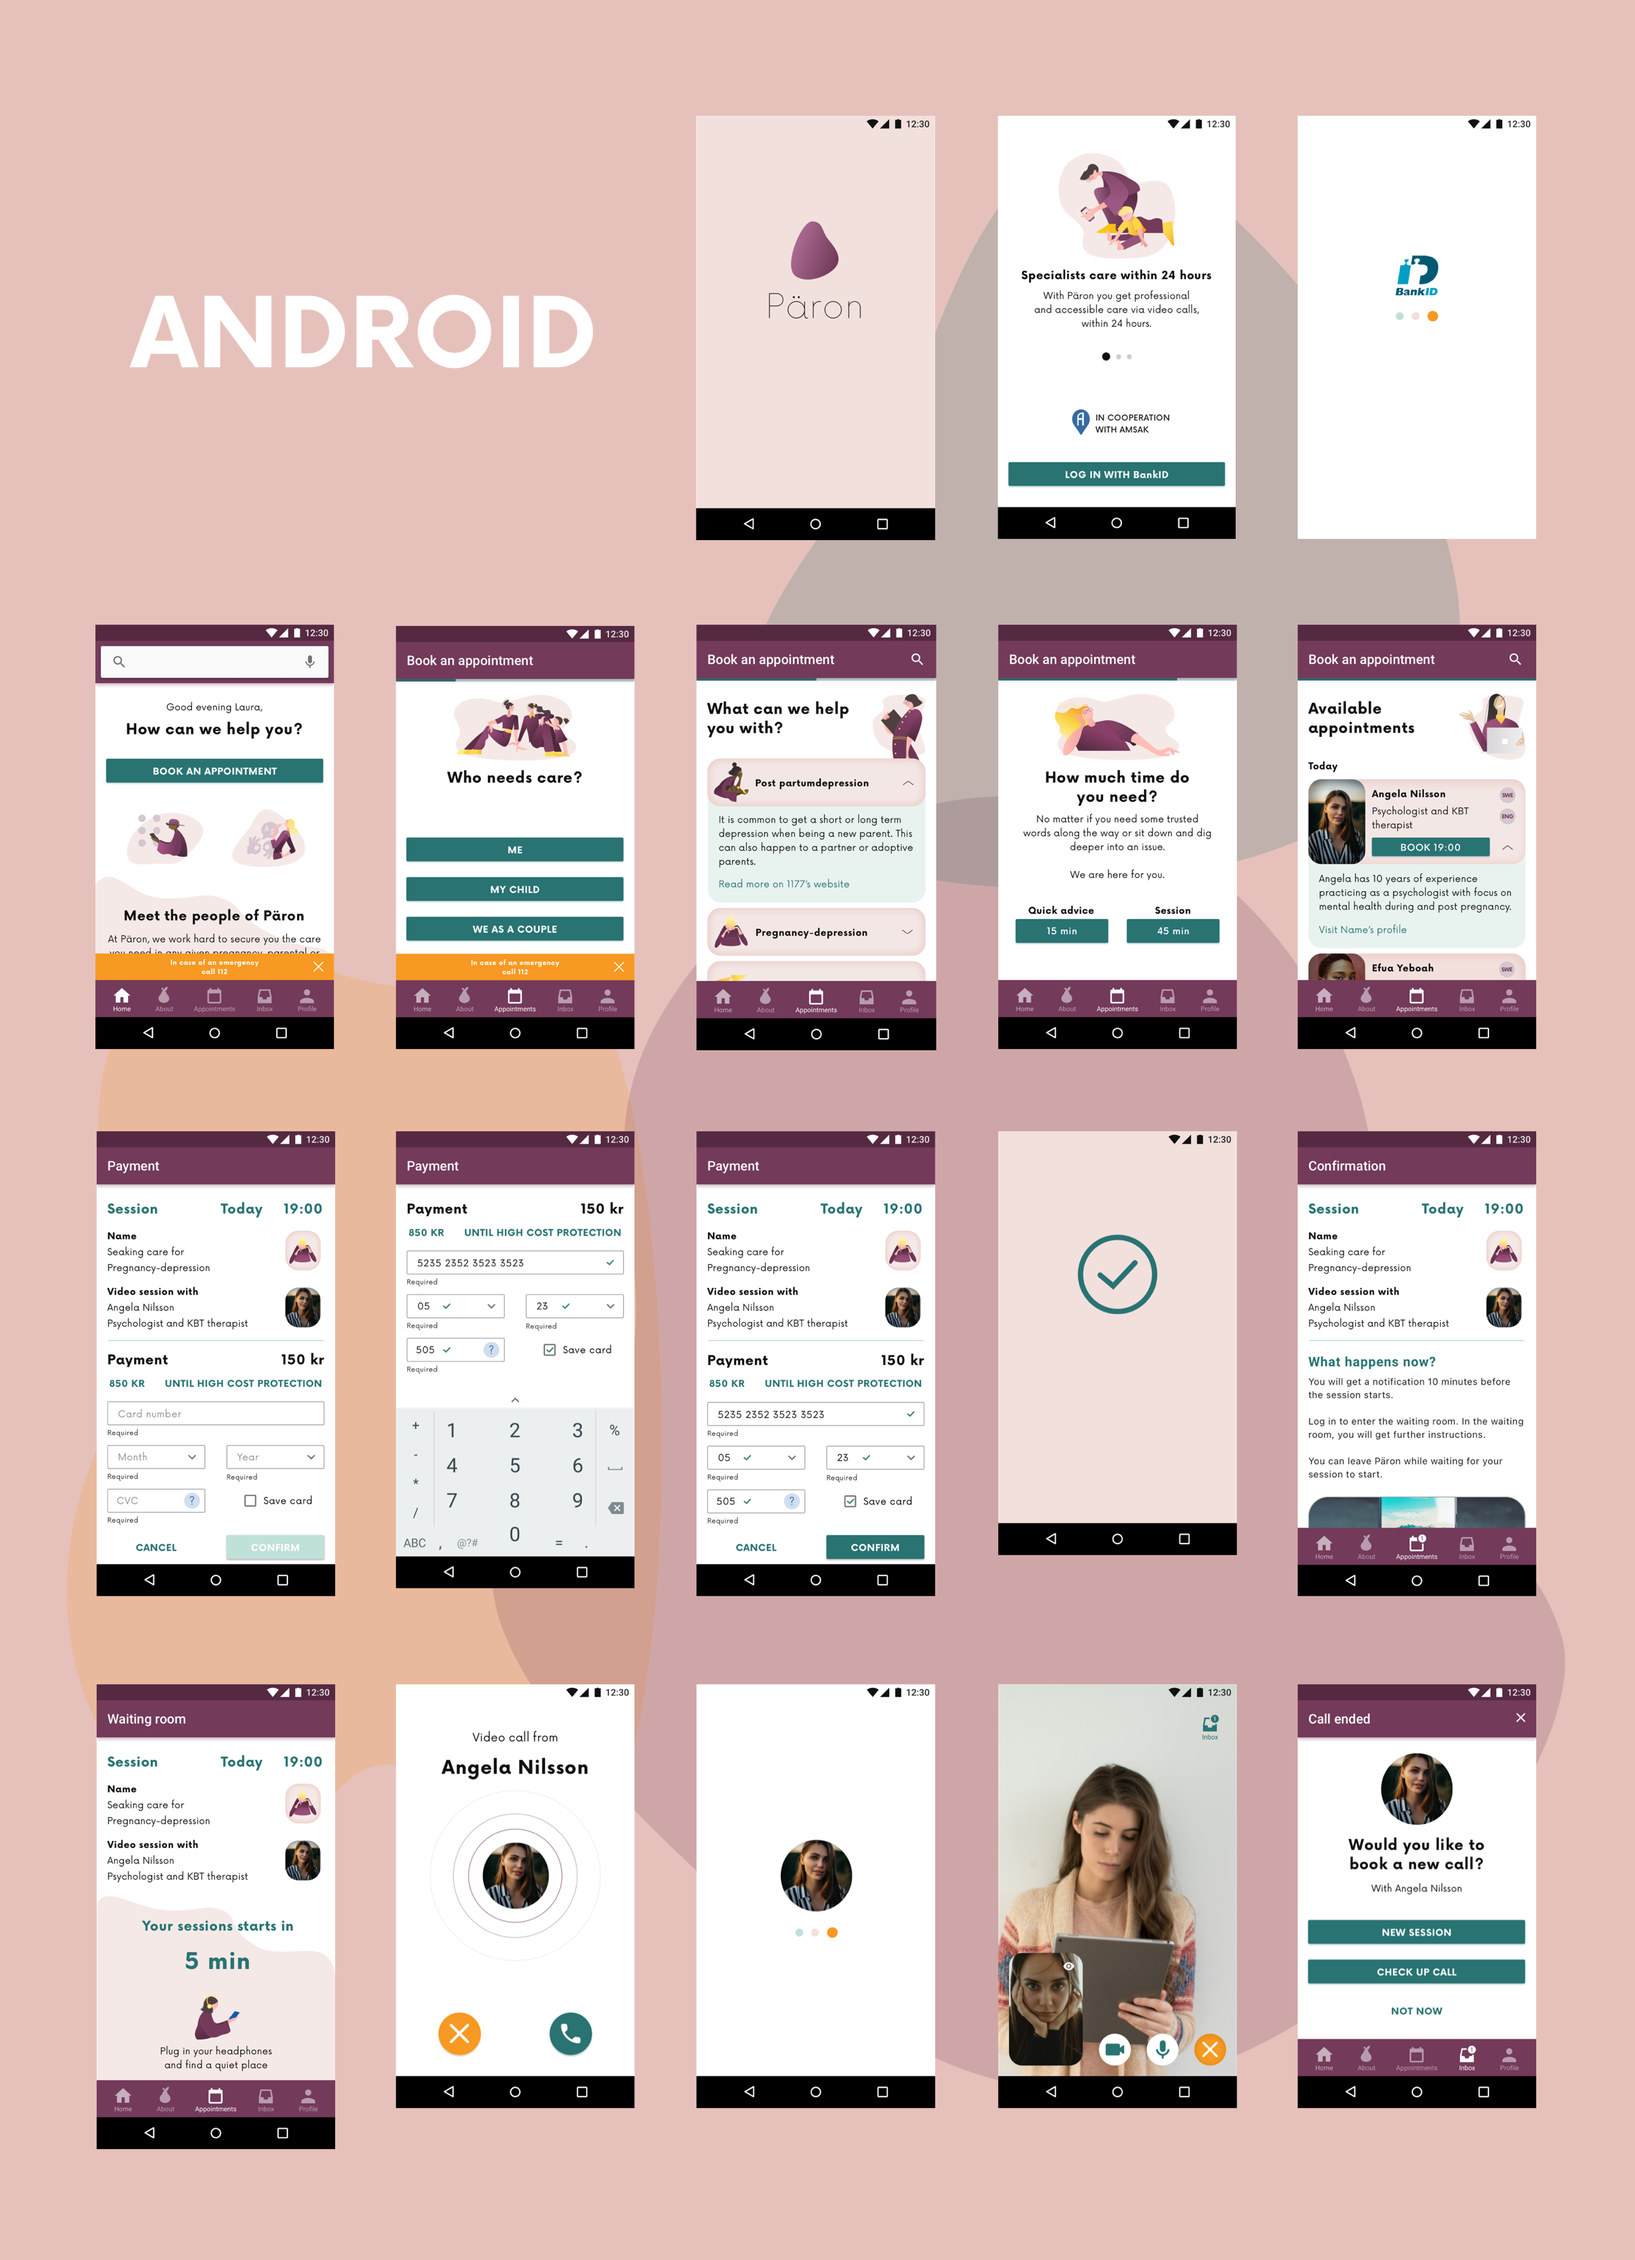
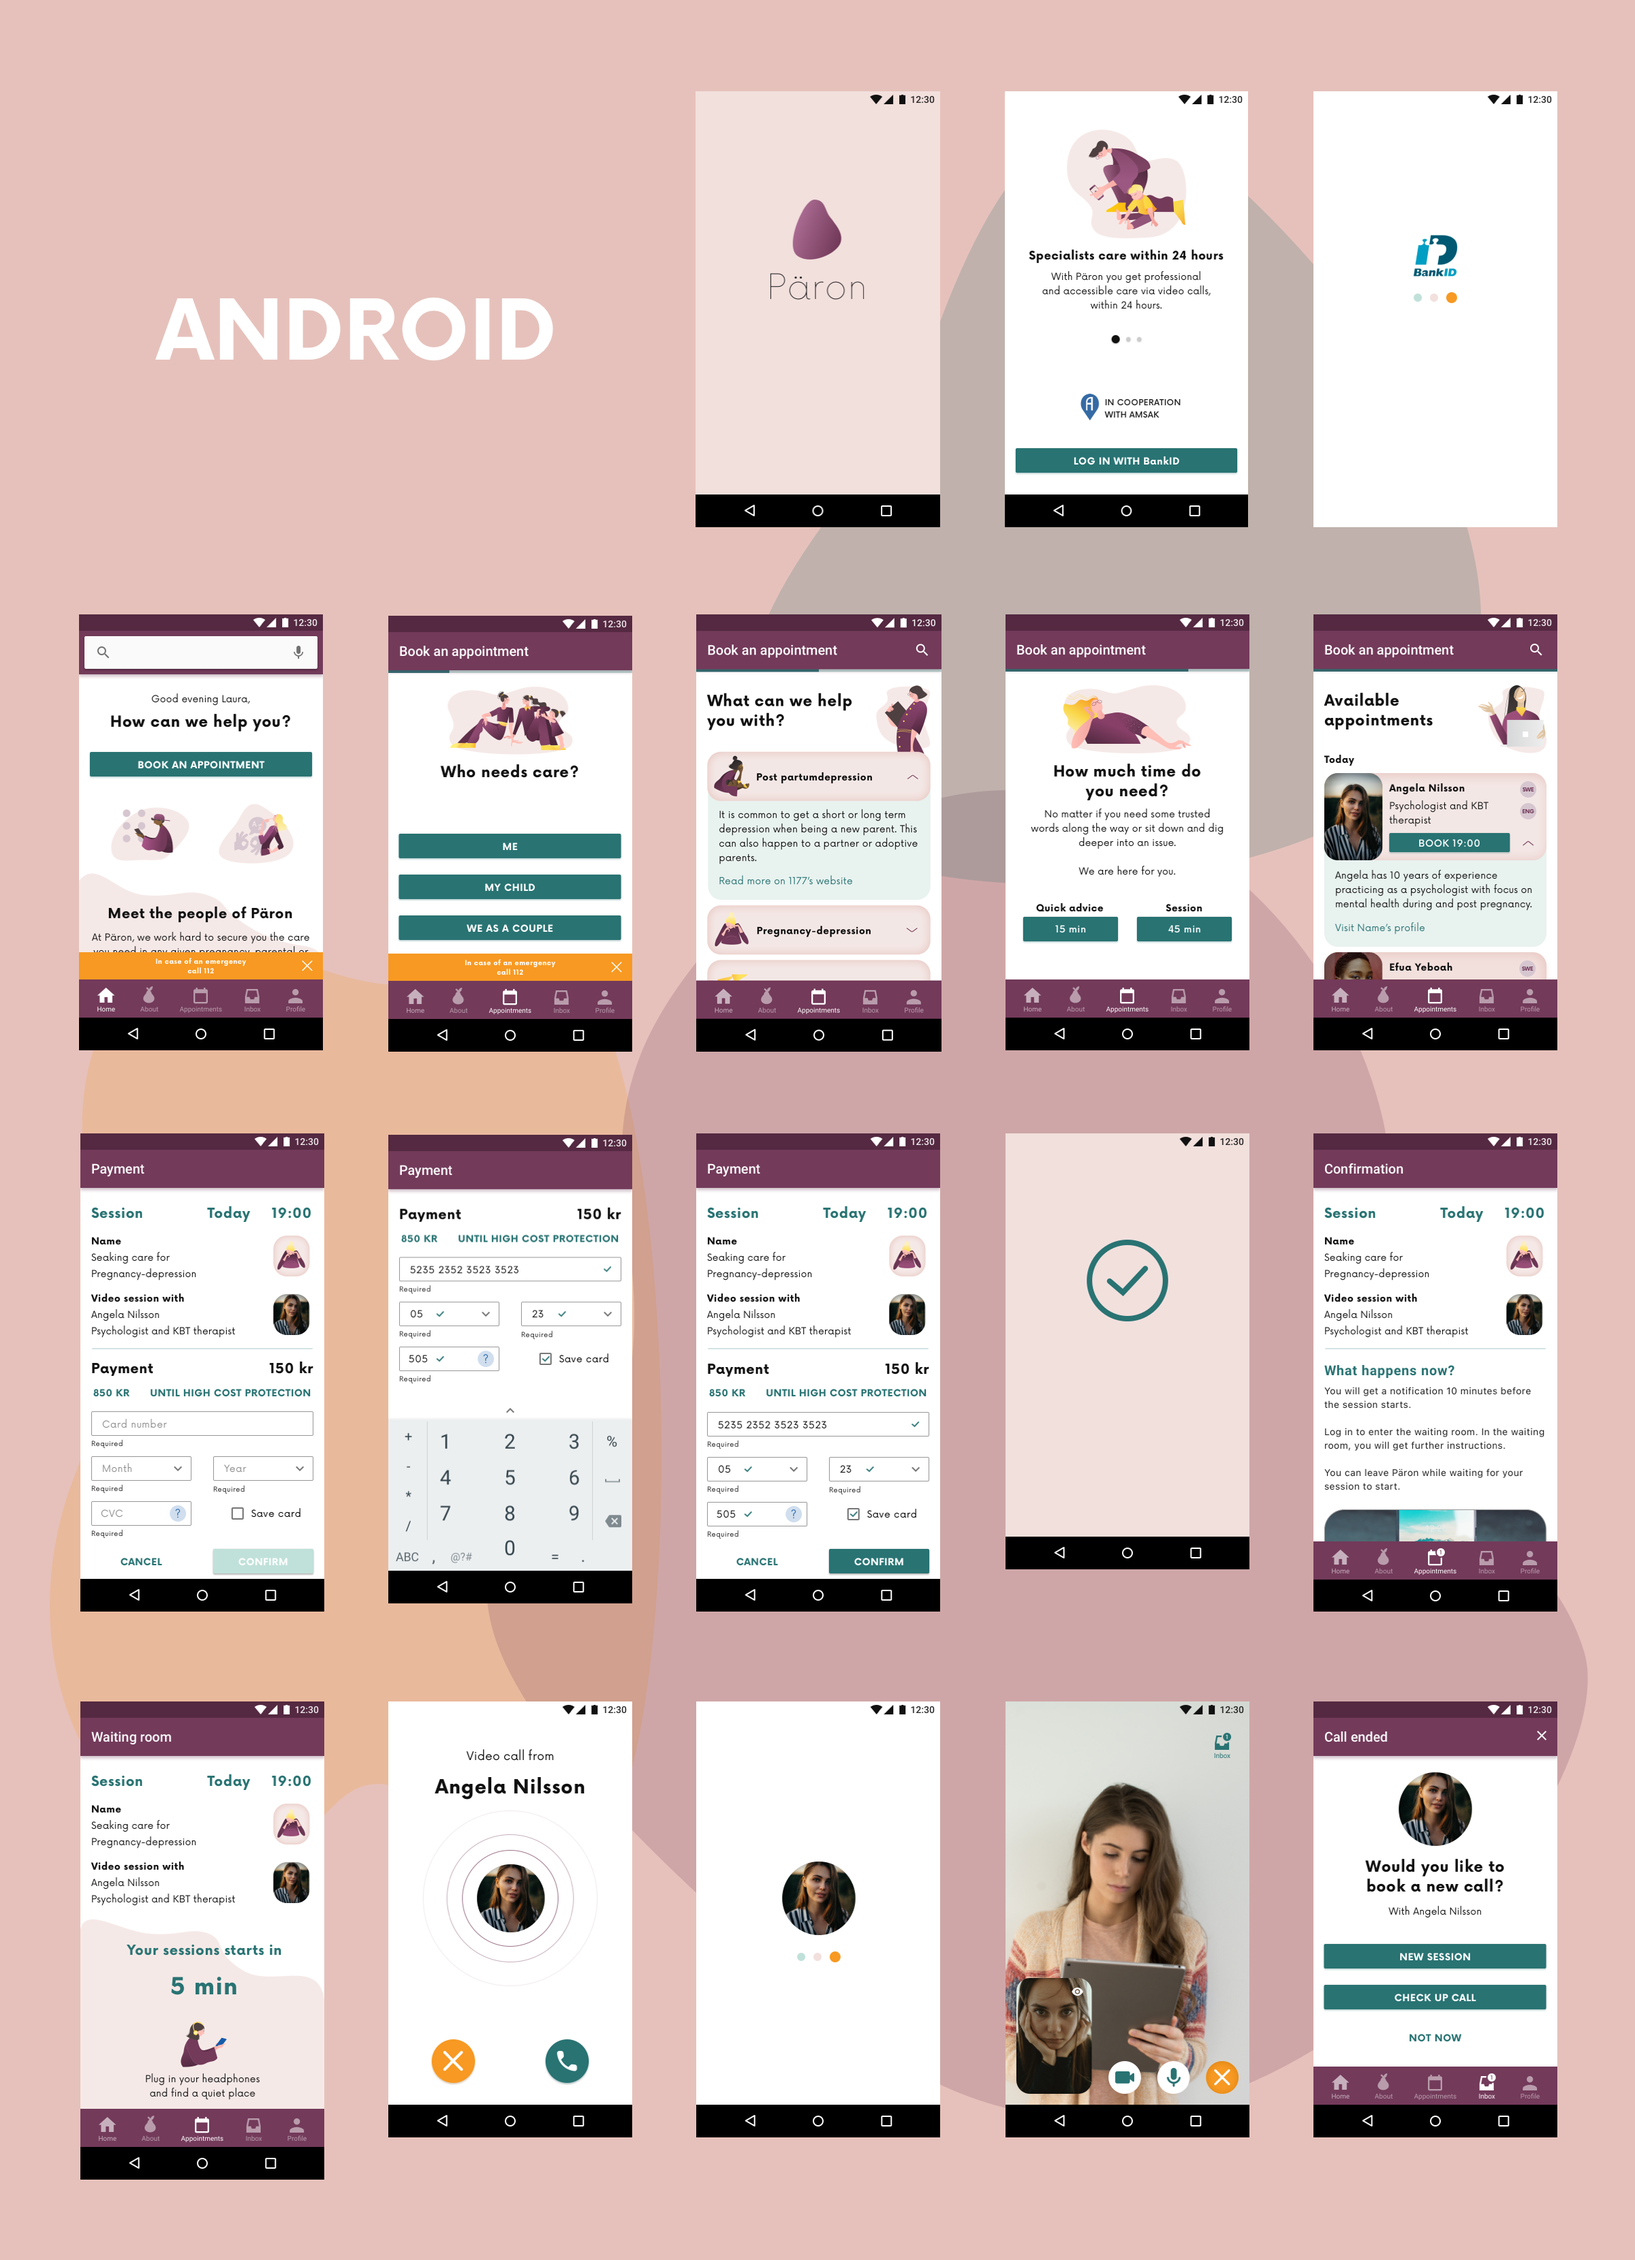
changed final design images for project päron

diff --git a/projectparon.html b/projectparon.html
@@ -100,8 +100,8 @@
 			<h3>Design process</h3>
 			</div>
 				<picture>
-					<source srcset="img/projects/paron/desigprocess@1x.png" media="(max-width:767px)">
-						<img src="img/projects/paron/desigprocess@2x.png" alt="paron">
+					<source srcset="img/projects/paron/designprocess@1x.png" media="(max-width:767px)">
+						<img src="img/projects/paron/designprocess@2x.png" alt="paron">
 				</picture>
 			<h3>Final design</h3>
 				<picture>
